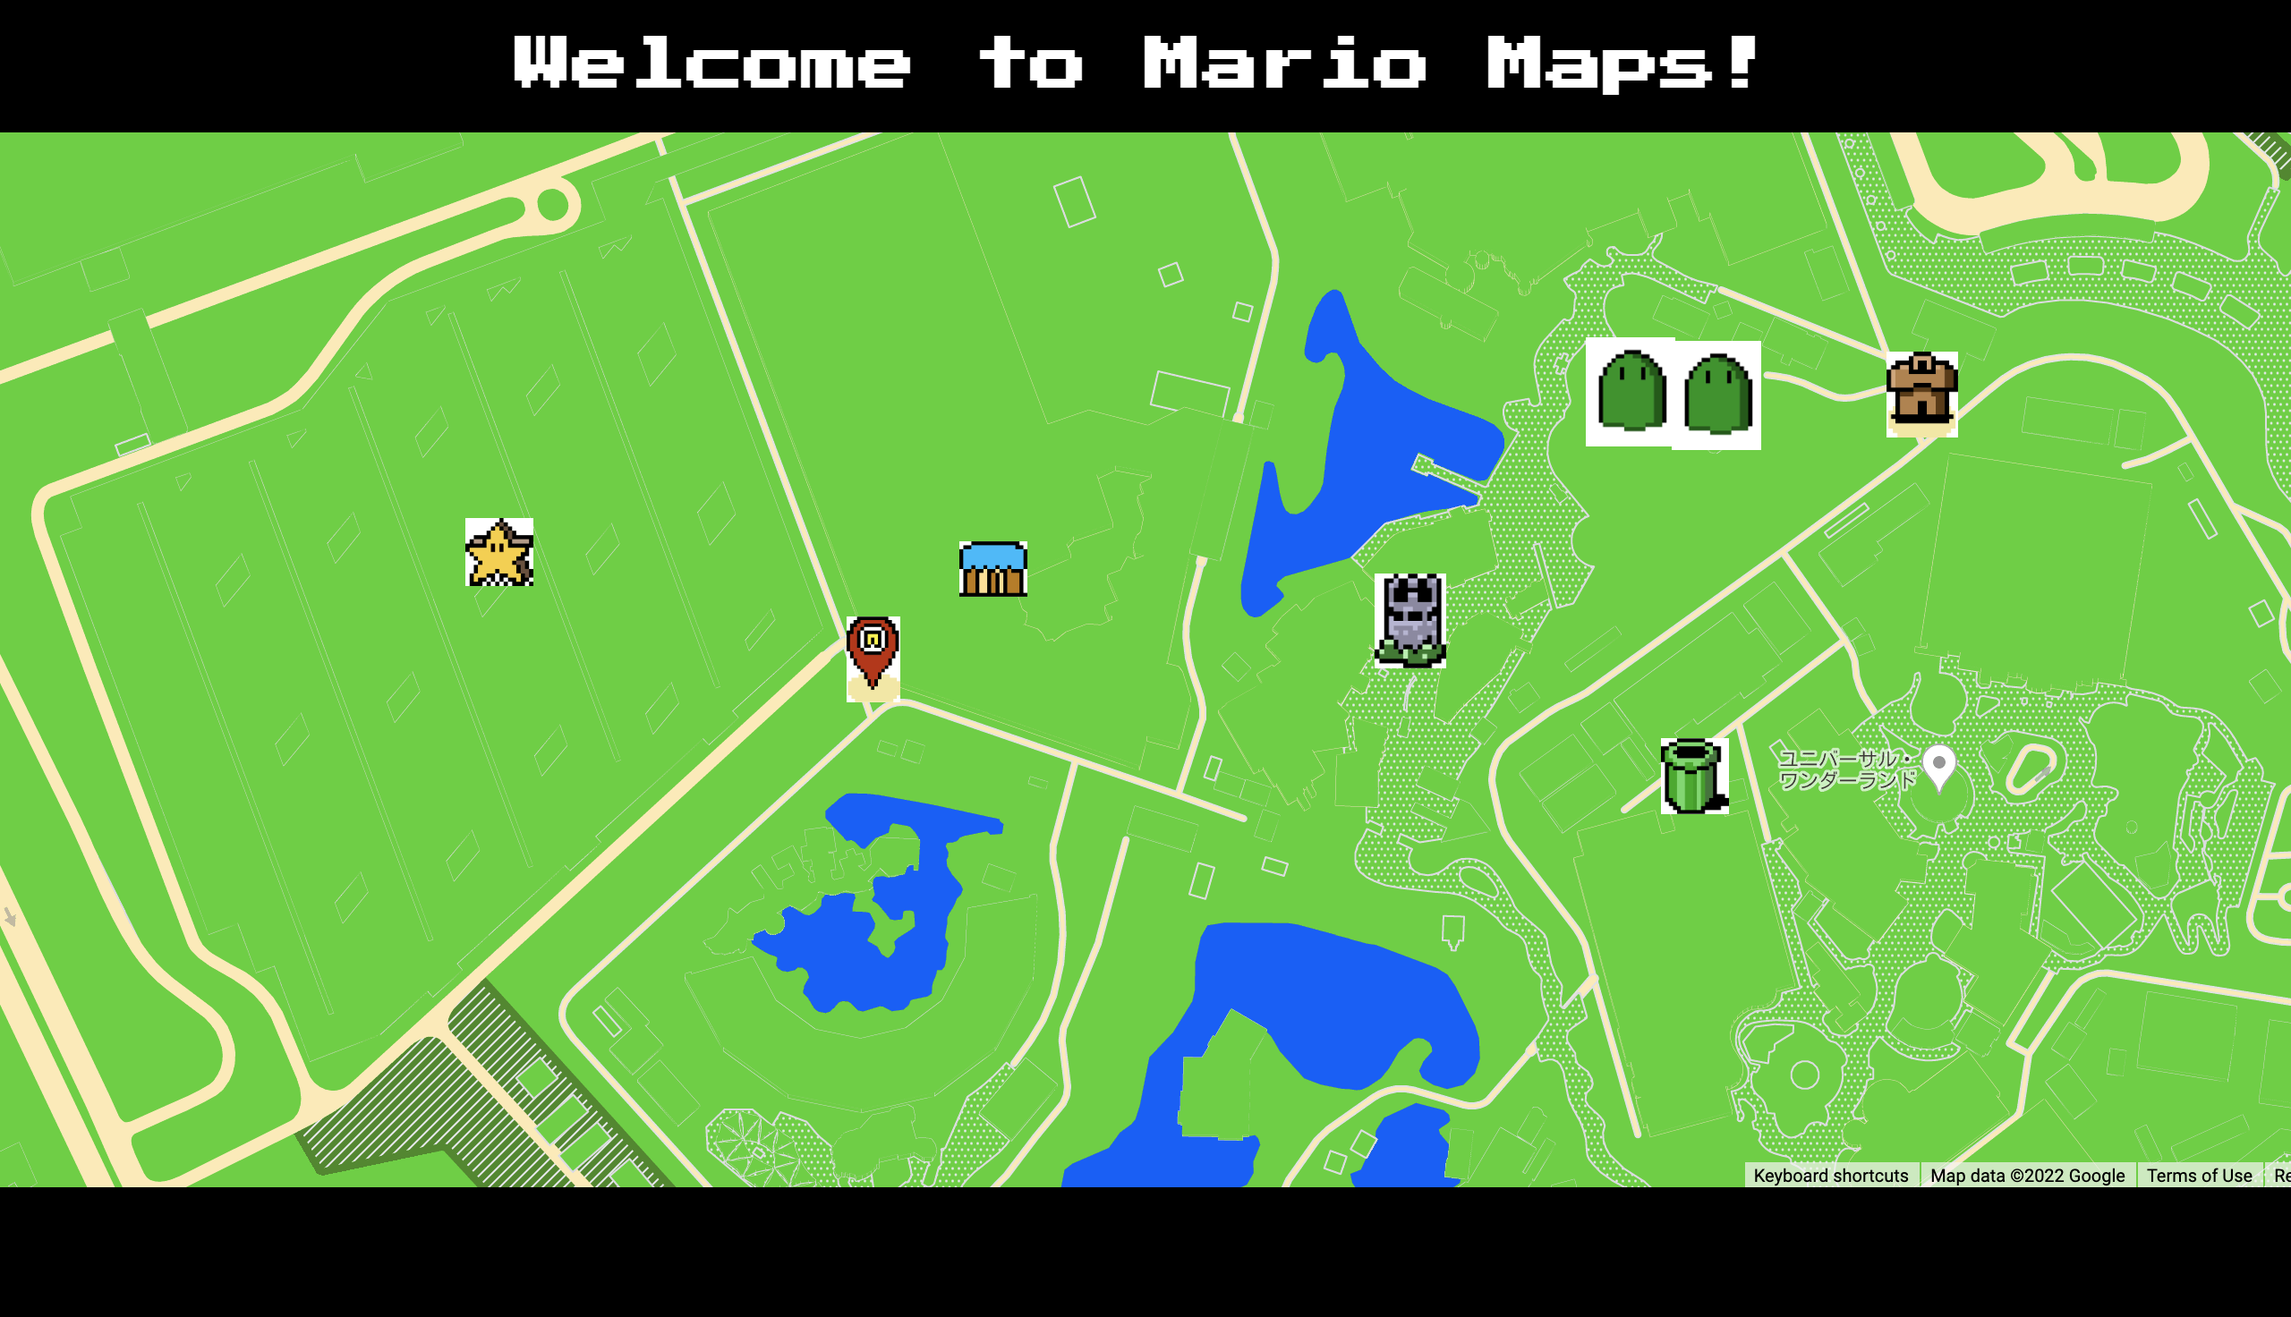
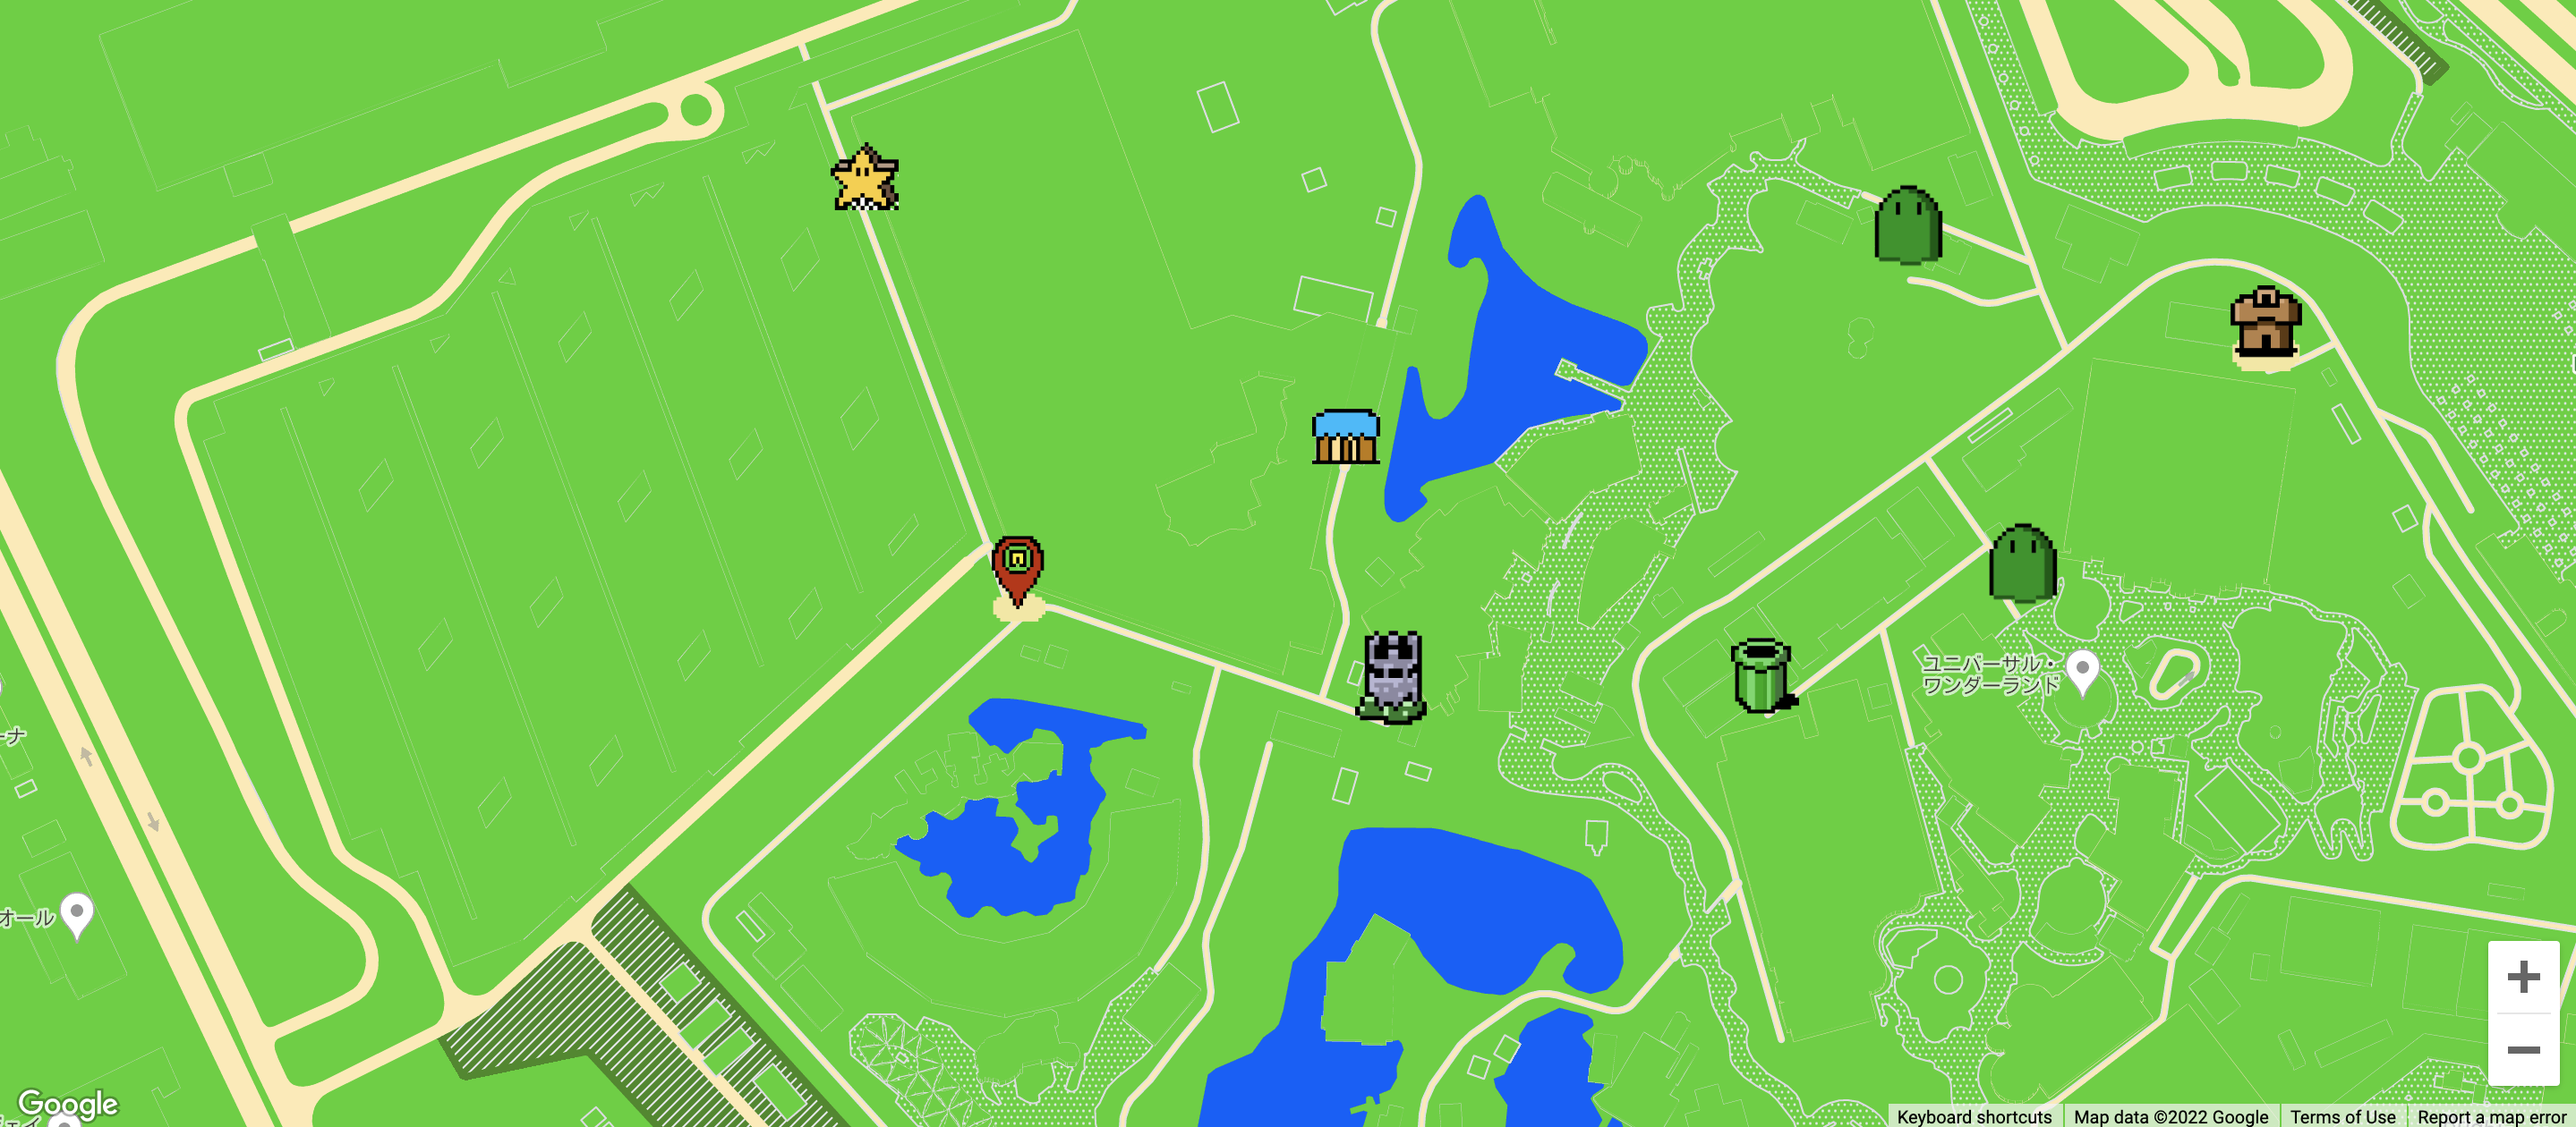
Add files via upload

diff --git a/mmscript.js b/mmscript.js
@@ -11,73 +11,65 @@ function initMap() {
   const markers = [
     [
       "Yoshi's House",
-      34.66793507394518,
-      135.43014347466126,
+      34.668024377861016,
+      135.4307727723262,
       "./assets/img/yoshihouse.png",
       38,
       31,
     ],
     [
       "You Are Here",
-      34.66767112713121,
-      135.4297887322531,
+      34.66763804451388,
+      135.42979044498887,
       "./assets/img/pointer.png",
       30,
       47.8,
     ],
     [
       "Ghost House",
-      34.66832715150856,
-      135.43292762674864,
+      34.66825633160138,
+      135.43353012980901,
       "./assets/img/ghosthouse.png",
       40,
       48,
     ],
     [
       "Castle",
-      34.66775608022106,
-      135.43139547897843,
+      34.66738241892456,
+      135.4309079116888,
       "./assets/img/castle.png",
       40,
       53,
     ],
     [
       "Warp Pipe",
-      34.66739738878135,
-      135.43225049775214,
+      34.66740716136074,
+      135.4320280671954,
       "./assets/img/pipe.png",
       38,
       42.5,
     ],
     [
       "Star World",
-      34.667959023359266,
-      135.42866400953733,
+      34.668650936328596,
+      135.4293296246262,
       "./assets/img/star.png",
       38,
       38,
     ],
     [
       "Donut Plains",
-      34.66830355359945,
-      135.4320565322381,
+      34.66847563309339,
+      135.43245436928734,
       "./assets/img/hill.png",
       50,
       60.7,
     ],
     [
       "Donut Plains",
-      34.66829411443392,
-      135.43231361996433,
+      34.66764012499393,
+      135.4327946680466,
       "./assets/img/hill.png",
-      50,
-      60.7,
-    ],
-    [
-      "Donut Plains",
-      34.6683781779677,
-      135.43217016043528,
-      "./assets/img/hill/png",
       50,
       60.7,
     ],

diff --git a/index.html b/index.html
@@ -149,7 +149,7 @@
     <div class="box">
       <img src="assets/img/optimized.png" alt="" />
       <div class="info">
-        <h3>E-Commerce Website</h3>
+        <h3>Content Management</h3>
         <p>HTML - CSS - Bootstrap - JS</p>
         <a href="https://optimizedimaging.com/" target="_blank" class="btn">View</a>
       </div>
@@ -167,8 +167,8 @@
     <div class="box">
       <img src="assets/img/mariomaps.png" alt="" />
       <div class="info">
-        <h3>Mario Maps</h3>
-        <p>HTML - CSS - JS <br>Google Cloud Maps API</p>
+        <h3>Google Cloud API</h3>
+        <p>HTML - CSS - JS <br>Google Maps JS API</p>
         <a href="/mario-maps.html" target="_blank" class="btn">View</a>
       </div>
     </div>
